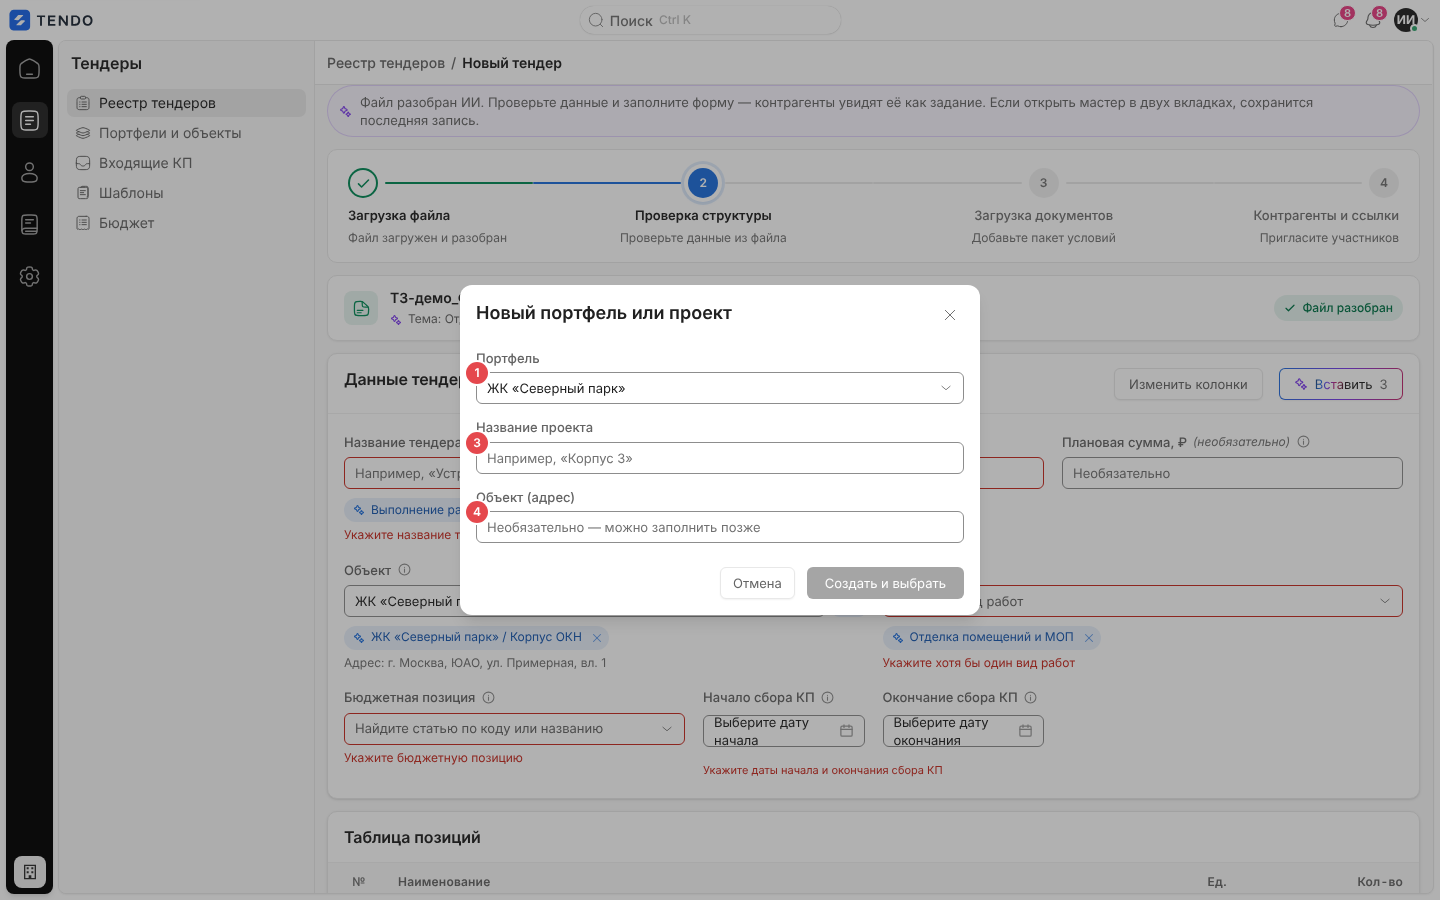
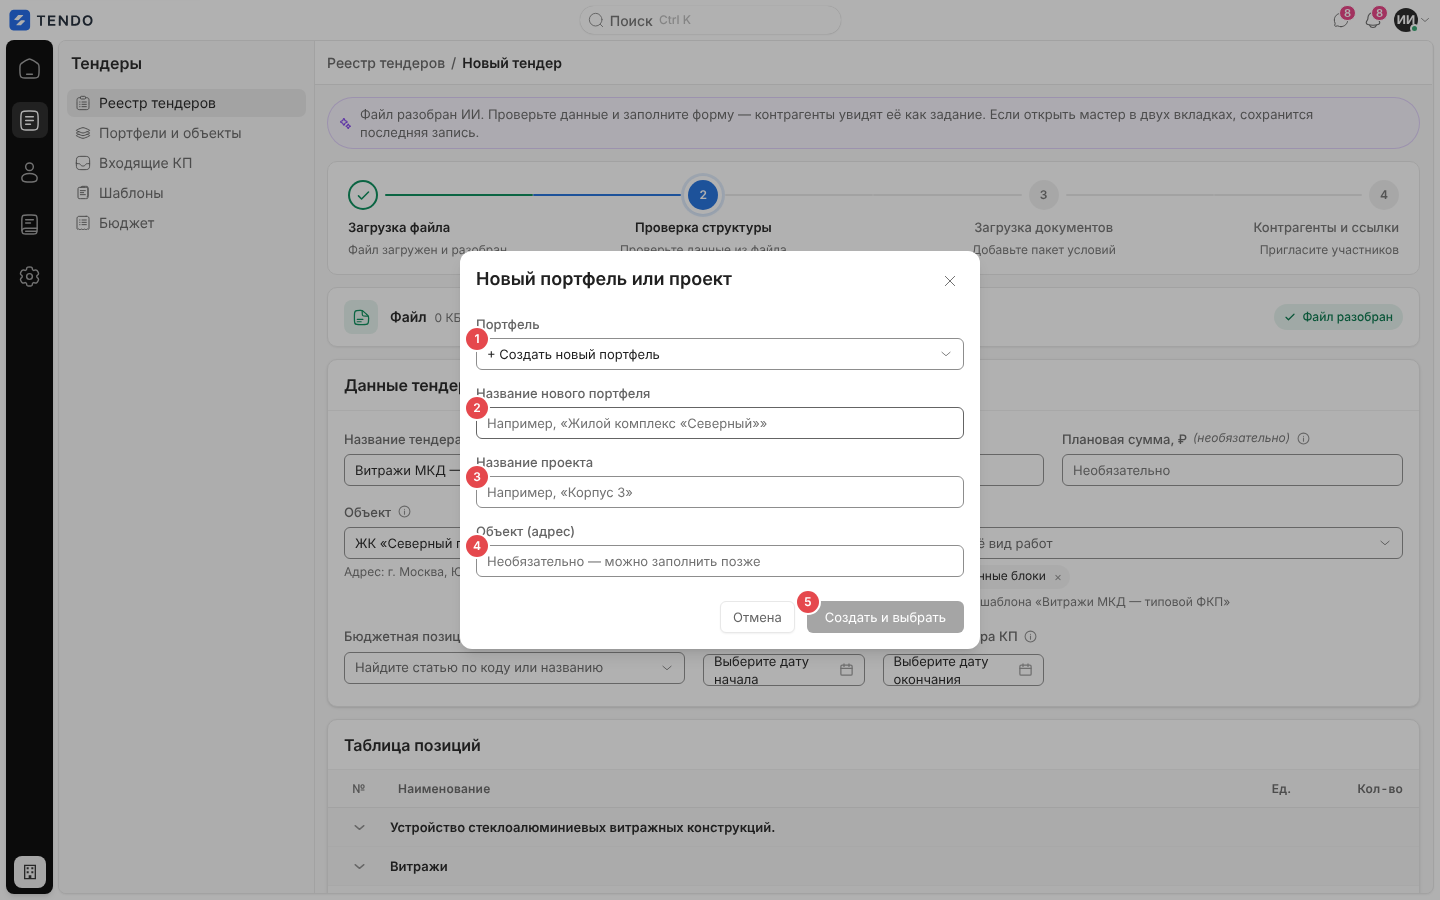
docs(tz): поставщики и распознавание ФКП; сверка полей импорта по коду; риск проверок по реестрам
Claude-Session: https://claude.ai/code/session_013h6SzCxS18xKzYBE9b98By

diff --git a/04-api/endpoints-tenders-invite.md b/04-api/endpoints-tenders-invite.md
@@ -345,7 +345,7 @@ sequenceDiagram
 | Поле | Тип | Смысл |
 |---|---|---|
 | `ok`, `file_name` | | |
-| `matched[]` | array | `{row, tender_item_id, code, name, materials_price, works_price, note, matched_by ("code"/"name"), derived}` — `derived`: цена за единицу выведена из суммы и объёма |
+| `matched[]` | array | `{row, tender_item_id, code, name, materials_price, works_price, note, matched_by ("code"/"name"), derived}` — `derived`: `null`, если ставки взяты из файла как есть, иначе способ восстановления ставки: `from_line_sum` — ставки материалов/работ из сумм строки ÷ объём; `unit_total_only` — общая ставка за единицу записана в работы; `from_line_total` — общая сумма строки ÷ объём записана в работы |
 | `unparsed[]` | array | `{row, tender_item_id|null, code, name, reason}` — строка адресована позиции, но цену не взять (например, «Цены за единицу не заполнены») или позиция неоднозначна |
 | `extra_rows[]` | array | строки, которых нет в тендере: `{row, code, name, unit, quantity, section_id, note, materials_price, works_price}` |
 | `missing_items[]` | array | позиции тендера, которых нет в файле: `{tender_item_id, name, code}` |
@@ -371,7 +371,7 @@ sequenceDiagram
 | 413 | > 50 МБ | «Файл слишком большой (максимум 50 МБ). Разбейте таблицу или удалите лишние листы.» |
 | 403 / 410 | токен, отзыв, приостановка | общие |
 
-**Пример.** → `{"ok": true, "file_name": "КП Альфа.xlsx", "matched": [{"row": 14, "tender_item_id": 2504, "code": "1.1", "name": "Профильная система", "materials_price": 15520, "works_price": 17000, "note": null, "matched_by": "code", "derived": false}], "unparsed": [], "extra_rows": [{"row": 95, "code": null, "name": "Доп. крепёж", "unit": "шт", "quantity": 10, "materials_price": 150, "works_price": null}], "missing_items": [], "volume_changes": [], "structure_errors": [{"row": 95, "where": "строки 95", "message": "В файле есть строки, которых нет в форме ФКП: 1. Добавлять и менять строки нельзя — заполняйте только жёлтые ячейки скачанного шаблона."}], "conditions": [{"condition_field_id": 128, "label": "Условия оплаты (авансирование)", "value": "30%", "row": 120}], "unmatched_conditions": [], "price_columns": {"materials": 5, "works": 6, "by_order": false, "detail": []}, "meta": {"sheet_name": "ФКП", "rows_scanned": 106, "tender_items": 90, "priced_items": 89, "derived_items": 0}}`
+**Пример.** → `{"ok": true, "file_name": "КП Альфа.xlsx", "matched": [{"row": 14, "tender_item_id": 2504, "code": "1.1", "name": "Профильная система", "materials_price": 15520, "works_price": 17000, "note": null, "matched_by": "code", "derived": null}], "unparsed": [], "extra_rows": [{"row": 95, "code": null, "name": "Доп. крепёж", "unit": "шт", "quantity": 10, "materials_price": 150, "works_price": null}], "missing_items": [], "volume_changes": [], "structure_errors": [{"row": 95, "where": "строки 95", "message": "В файле есть строки, которых нет в форме ФКП: 1. Добавлять и менять строки нельзя — заполняйте только жёлтые ячейки скачанного шаблона."}], "conditions": [{"condition_field_id": 128, "label": "Условия оплаты (авансирование)", "value": "30%", "row": 120}], "unmatched_conditions": [], "price_columns": {"materials": 5, "works": 6, "by_order": false, "detail": []}, "meta": {"sheet_name": "ФКП", "rows_scanned": 106, "tender_items": 90, "priced_items": 89, "derived_items": 0}}`
 
 **Побочные эффекты.** Нет (файл не сохраняется).
 

diff --git a/02-business-logic/tenders-quotes.md b/02-business-logic/tenders-quotes.md
@@ -227,7 +227,7 @@ P — число позиций, по которым названа цена
 - Загрузка: только `.xlsx`/`.xlsm` («Нужен файл Excel (.xlsx) — тот самый шаблон из «Документов тендера»»), не пустой («Пустой файл»), в пределах общего лимита размера Excel-файлов, не более **20 000** строк («В файле N строк — больше допустимых 20000»); можно выбрать лист и вручную указать номера колонок цен материалов и работ, если подписи в шапке повреждены. Не найдена шапка — «Лист «…»: не найдена шапка таблицы позиций. Загрузите тот же файл, который скачали в «Документах тендера».»; в тендере нет позиций — «В тендере пока нет позиций — нечего сопоставлять».
 - Сервер **ничего не записывает в тендер и КП**: возвращает отчёт сопоставления — сопоставленные позиции с ценами, неразобранные строки (с причиной), строки, которых нет в форме, позиции, отсутствующие в файле, позиции с изменённым объёмом, ошибки структуры, ответы на доп. условия, найденные колонки цен. Цены подставляет форма в черновик, поставщик проверяет и подаёт сам.
 - **Отказ файлу, если форма изменена** (при `FKP_FORM_LOCKED = true`): строки, которых нет в форме, и изменённый объём — ошибки структуры, подстановка блокируется целиком («Файл не подошёл»): «В файле есть строки, которых нет в форме ФКП: N. Добавлять и менять строки нельзя — заполняйте только жёлтые ячейки скачанного шаблона.» (место — «строки 15, 16 и ещё K», перечисляется до 20) и «В файле изменён объём в строках формы. Объёмы менять нельзя — заполняйте только жёлтые ячейки скачанного шаблона.» При выключенной блокировке лишние строки становятся своими позициями поставщика, изменённые объёмы — корректировками (с обязательным комментарием).
-- Итоги и суммы из файла не читаются — только ставки; суммы пересчитывает форма.
+- Итоговые строки файла не читаются. Ставки берутся из колонок ставок; если по строке ставки пусты, а объём больше нуля, ставка восстанавливается из сумм строки: суммы материалов и работ ÷ объём, иначе ставка «за единицу всего» или сумма строки ÷ объём (идёт в работы). Нулевые суммы не учитываются — это кэш формул пустой формы. Стоимости позиций после загрузки всё равно пересчитывает форма.
 
 Правила разбора листа — [fkp-import.md](fkp-import.md).
 

diff --git a/09-estimation/complexity-map.md b/09-estimation/complexity-map.md
@@ -75,6 +75,7 @@
 | R6 | **Realtime и фоновые задачи на PostgreSQL** | Один процесс-лидер очереди, `LISTEN/NOTIFY`, догон событий. Ошибки проявляются только под нагрузкой и при рестартах | Нагрузочный прогон и тест «рестарт посреди задания» ([scalability](../07-architecture/scalability.md)) |
 | R7 | **Почта** | Статусы доставки, повторы, шаблоны, разные SMTP Заказчика | Тестовое письмо из настроек, перехватчик почты на стендах |
 | R8 | **Неясные требования** | В [../99-open-questions.md](../99-open-questions.md) больше 200 вопросов. Часть из них меняет объём: мультиарендность, целевые нагрузки, СКЗИ, контур ИИ, интеграции с реестрами | Закрыть вопросы с пометкой «влияет на оценку» до фиксации цены |
+| R10 | **Проверки по открытым реестрам** | В исходной системе ЕГРЮЛ и «Заполнить по ИНН» работают через неофициальный публичный веб-поиск ФНС (возможны CAPTCHA и смена формата), РНП — разбором HTML, а СРО, арбитраж и банкротства — только ссылками для ручной проверки. Блока проверок в интерфейсе нет | Решить с Заказчиком: официальный платный API-агрегатор, ручные ссылки или отказ ([suppliers](../02-business-logic/suppliers.md)); оценивать отдельно |
 | R9 | **Перенос данных** | Если Заказчик захочет перенести данные из текущей системы, понадобится отдельная миграция, включая расшифровку и перешифровку ПДн | Отдельная оценка после решения ([tables](../05-data-model/tables.md)) |
 
 ## 4. Что можно упростить без потери ценности

diff --git a/01-product/scope-and-mvp.md b/01-product/scope-and-mvp.md
@@ -81,6 +81,7 @@ MoSCoW: **Must** — без этого продукт не решает зада
 | ИИ-сопоставление позиций | `AI_PIPELINES__POSITION_MATCHING` (выключено по умолчанию: точность не измерена) | [ai-features](../06-ai/ai-features.md) |
 | Передача журнала ИБ во внешнюю SIEM | `VITE_ENABLE_SIEM_TRANSFER` (скрыта в интерфейсе) | [security](../02-business-logic/security.md) |
 | Пересылка технических логов во внешний приёмник, алерты в мессенджер | `LOG_FORWARD_*`, `ALERTS_ENABLED` | [nonfunctional](../07-architecture/nonfunctional.md) |
+| Автопроверки контрагента по открытым реестрам (ЕГРЮЛ, РНП; СРО, арбитраж и банкротства — ссылки для ручной проверки) и «Заполнить по ИНН» | источник данных согласовать с Заказчиком | [suppliers](../02-business-logic/suppliers.md) |
 | Антивирусная проверка вложений | `VIRUS_SCANNER=clamav` | [files](../02-business-logic/files.md) |
 | Передача обращений об ошибках во внешний трекер | `BUGREPORT_GITHUB_ENABLED` | [bug-reports](../02-business-logic/bug-reports.md) |
 | Демо-инструменты: демо-учётки на входе, демо-хаб, стенд плотной матрицы, пример файла, «заполнить за меня» | `VITE_DEMO_TOOLS` | [demo](../03-screens/demo.md), [tender-dense-gate](../03-screens/tender-dense-gate.md) |

diff --git a/04-api/endpoints-tenders-import.md b/04-api/endpoints-tenders-import.md
@@ -115,7 +115,7 @@ sequenceDiagram
 | `column_map` | object \| null | распознанная карта колонок: `header_row`, `data_start_row`, индексы ролей (`number`, `budget_code`, `name`, `mark`, `equipment_code`, `manufacturer`, `unit`, `qty`), `price_start_col`, `columns[]` (`col`, `header`, `sample`, `role`, `role_label`, `zone` = `structure`/`price`, `include`, `required`), `ignored_price_headers`, `unknown_before_price` |
 | `parse_meta` | object | `mode` (режим разбора), `sheet_name`, `sheet_index`, `conditions_source` (`footer`/`sheet`/`mixed`) |
 | `parse_warnings` | string[] | предупреждения для показа (например, «ИИ-доразбор выключен — принята структура как есть. Проверьте разделы.») |
-| `parsed_by` | string | `heuristic` или `llm` |
+| `parsed_by` | string | `heuristic` — разобрано правилами; `ai` — правила не нашли позиций и структуру собрала модель; `heuristic+llm_repair` — зарезервировано под ремонт иерархии моделью (в текущей реализации не используется) |
 | `skipped_totals` / `skipped_totals_detail` | string[] / `{row, kind, label}[]` | строки итогов и НДС, исключённые из позиций (`kind`: `grand_total`, `vat`, …) |
 | `formula_check` | object \| null | сверка итогов файла с деревом (контрольные суммы) |
 | `document` | object \| null | реквизиты документа из шапки (если найдены) |
